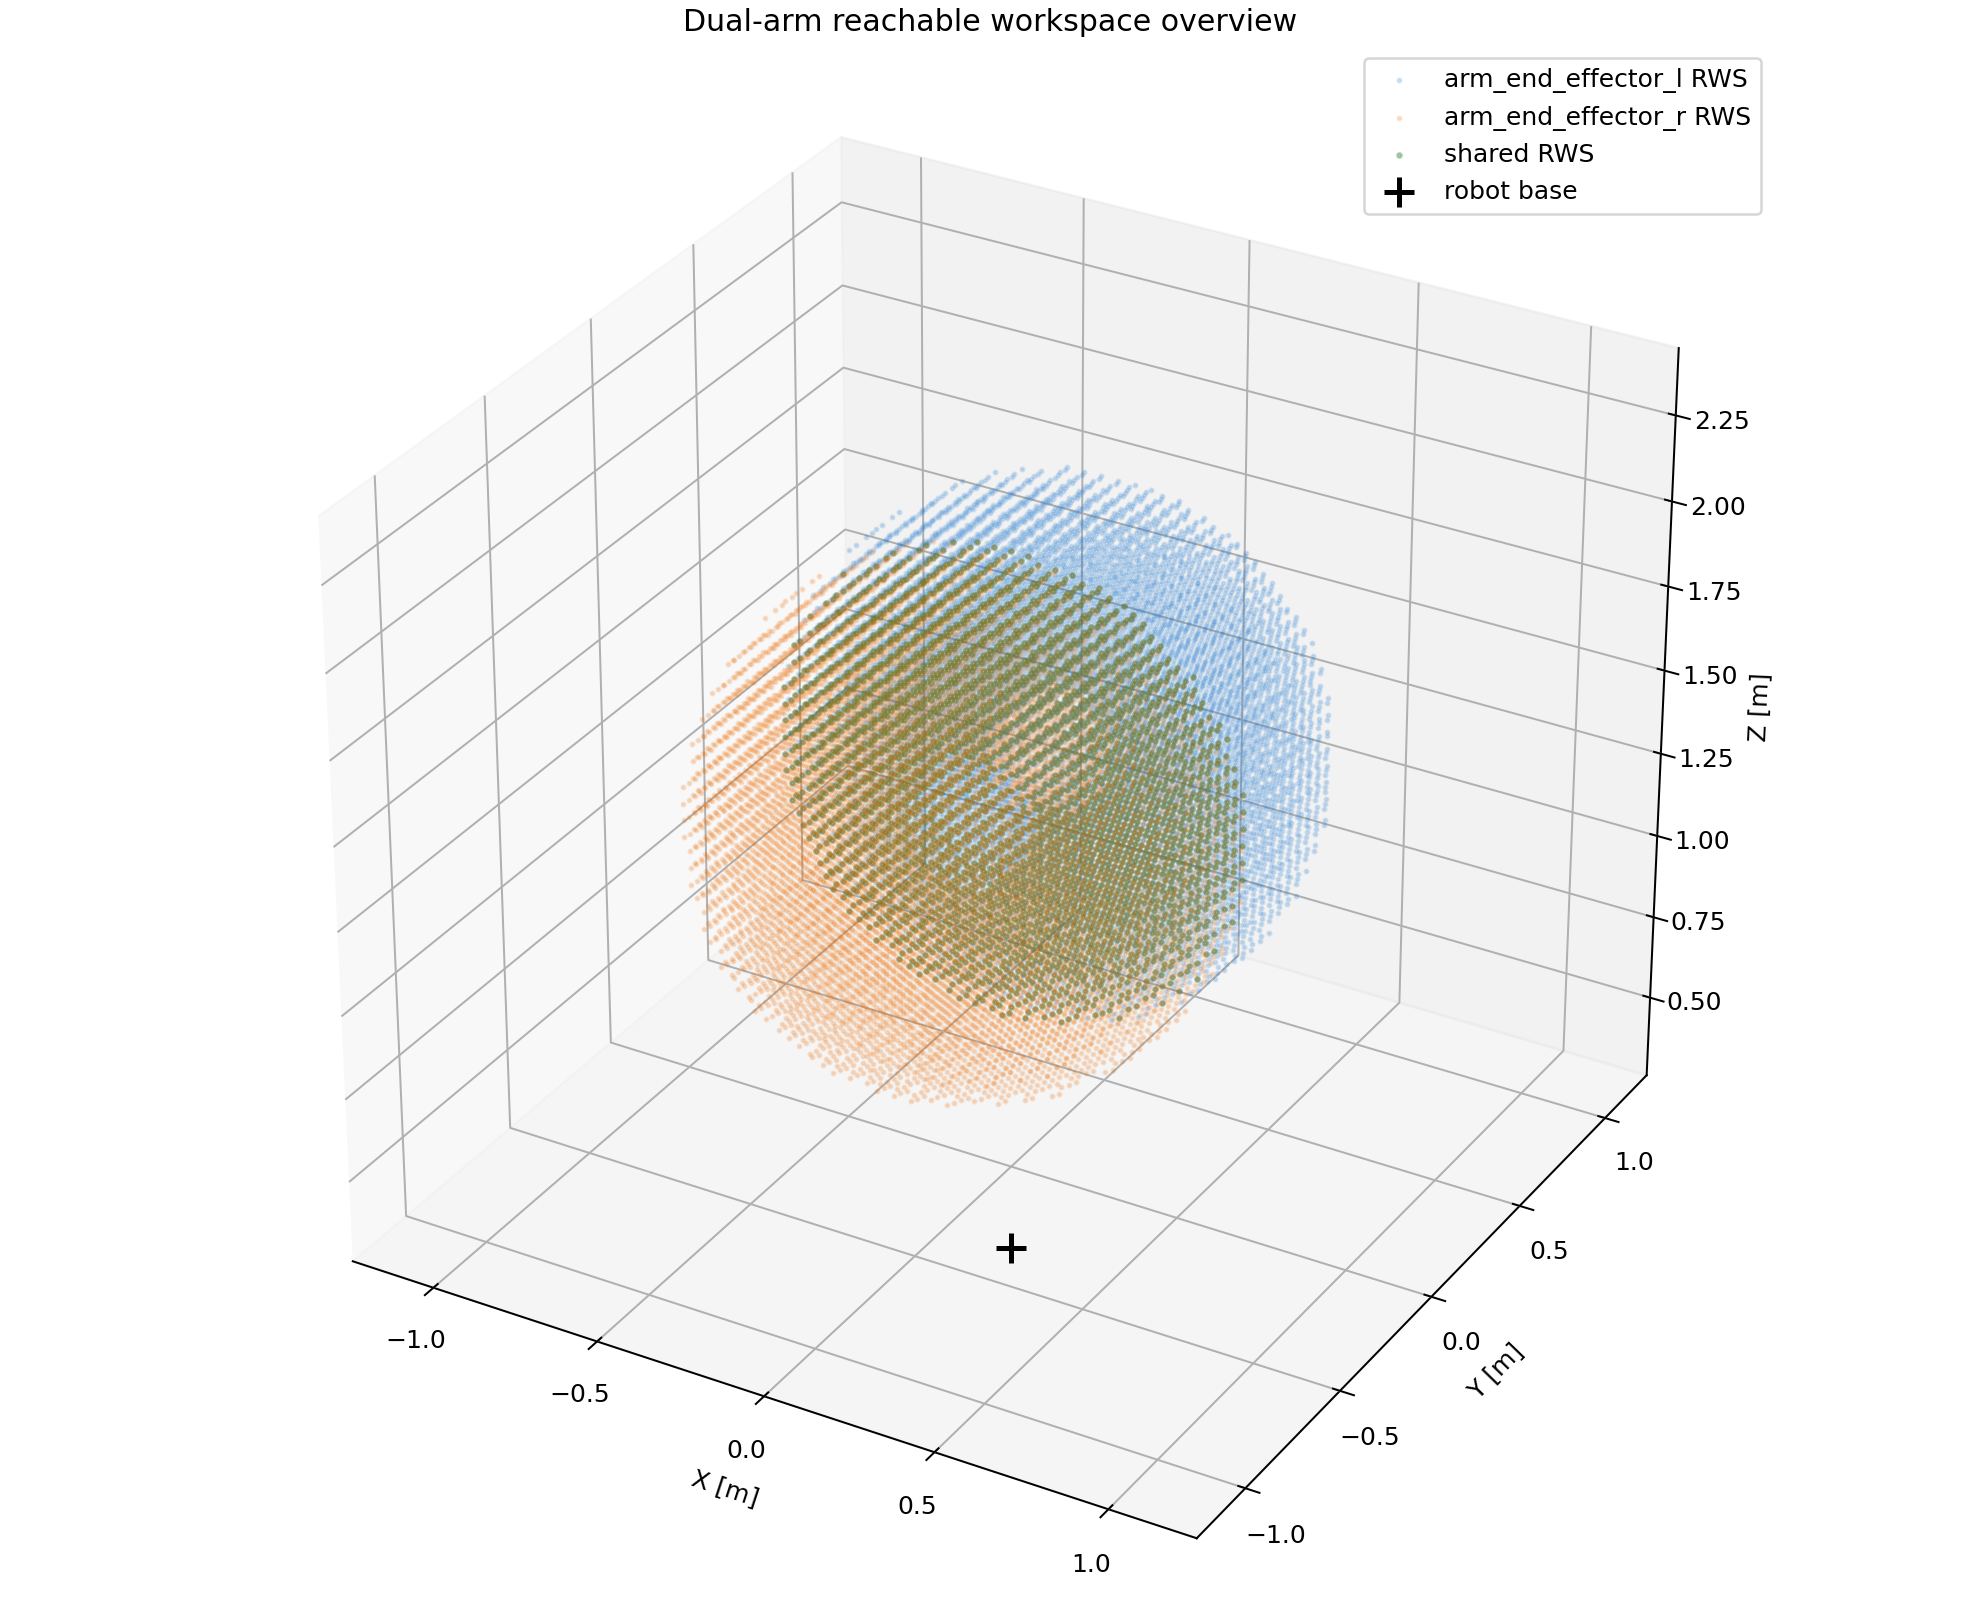
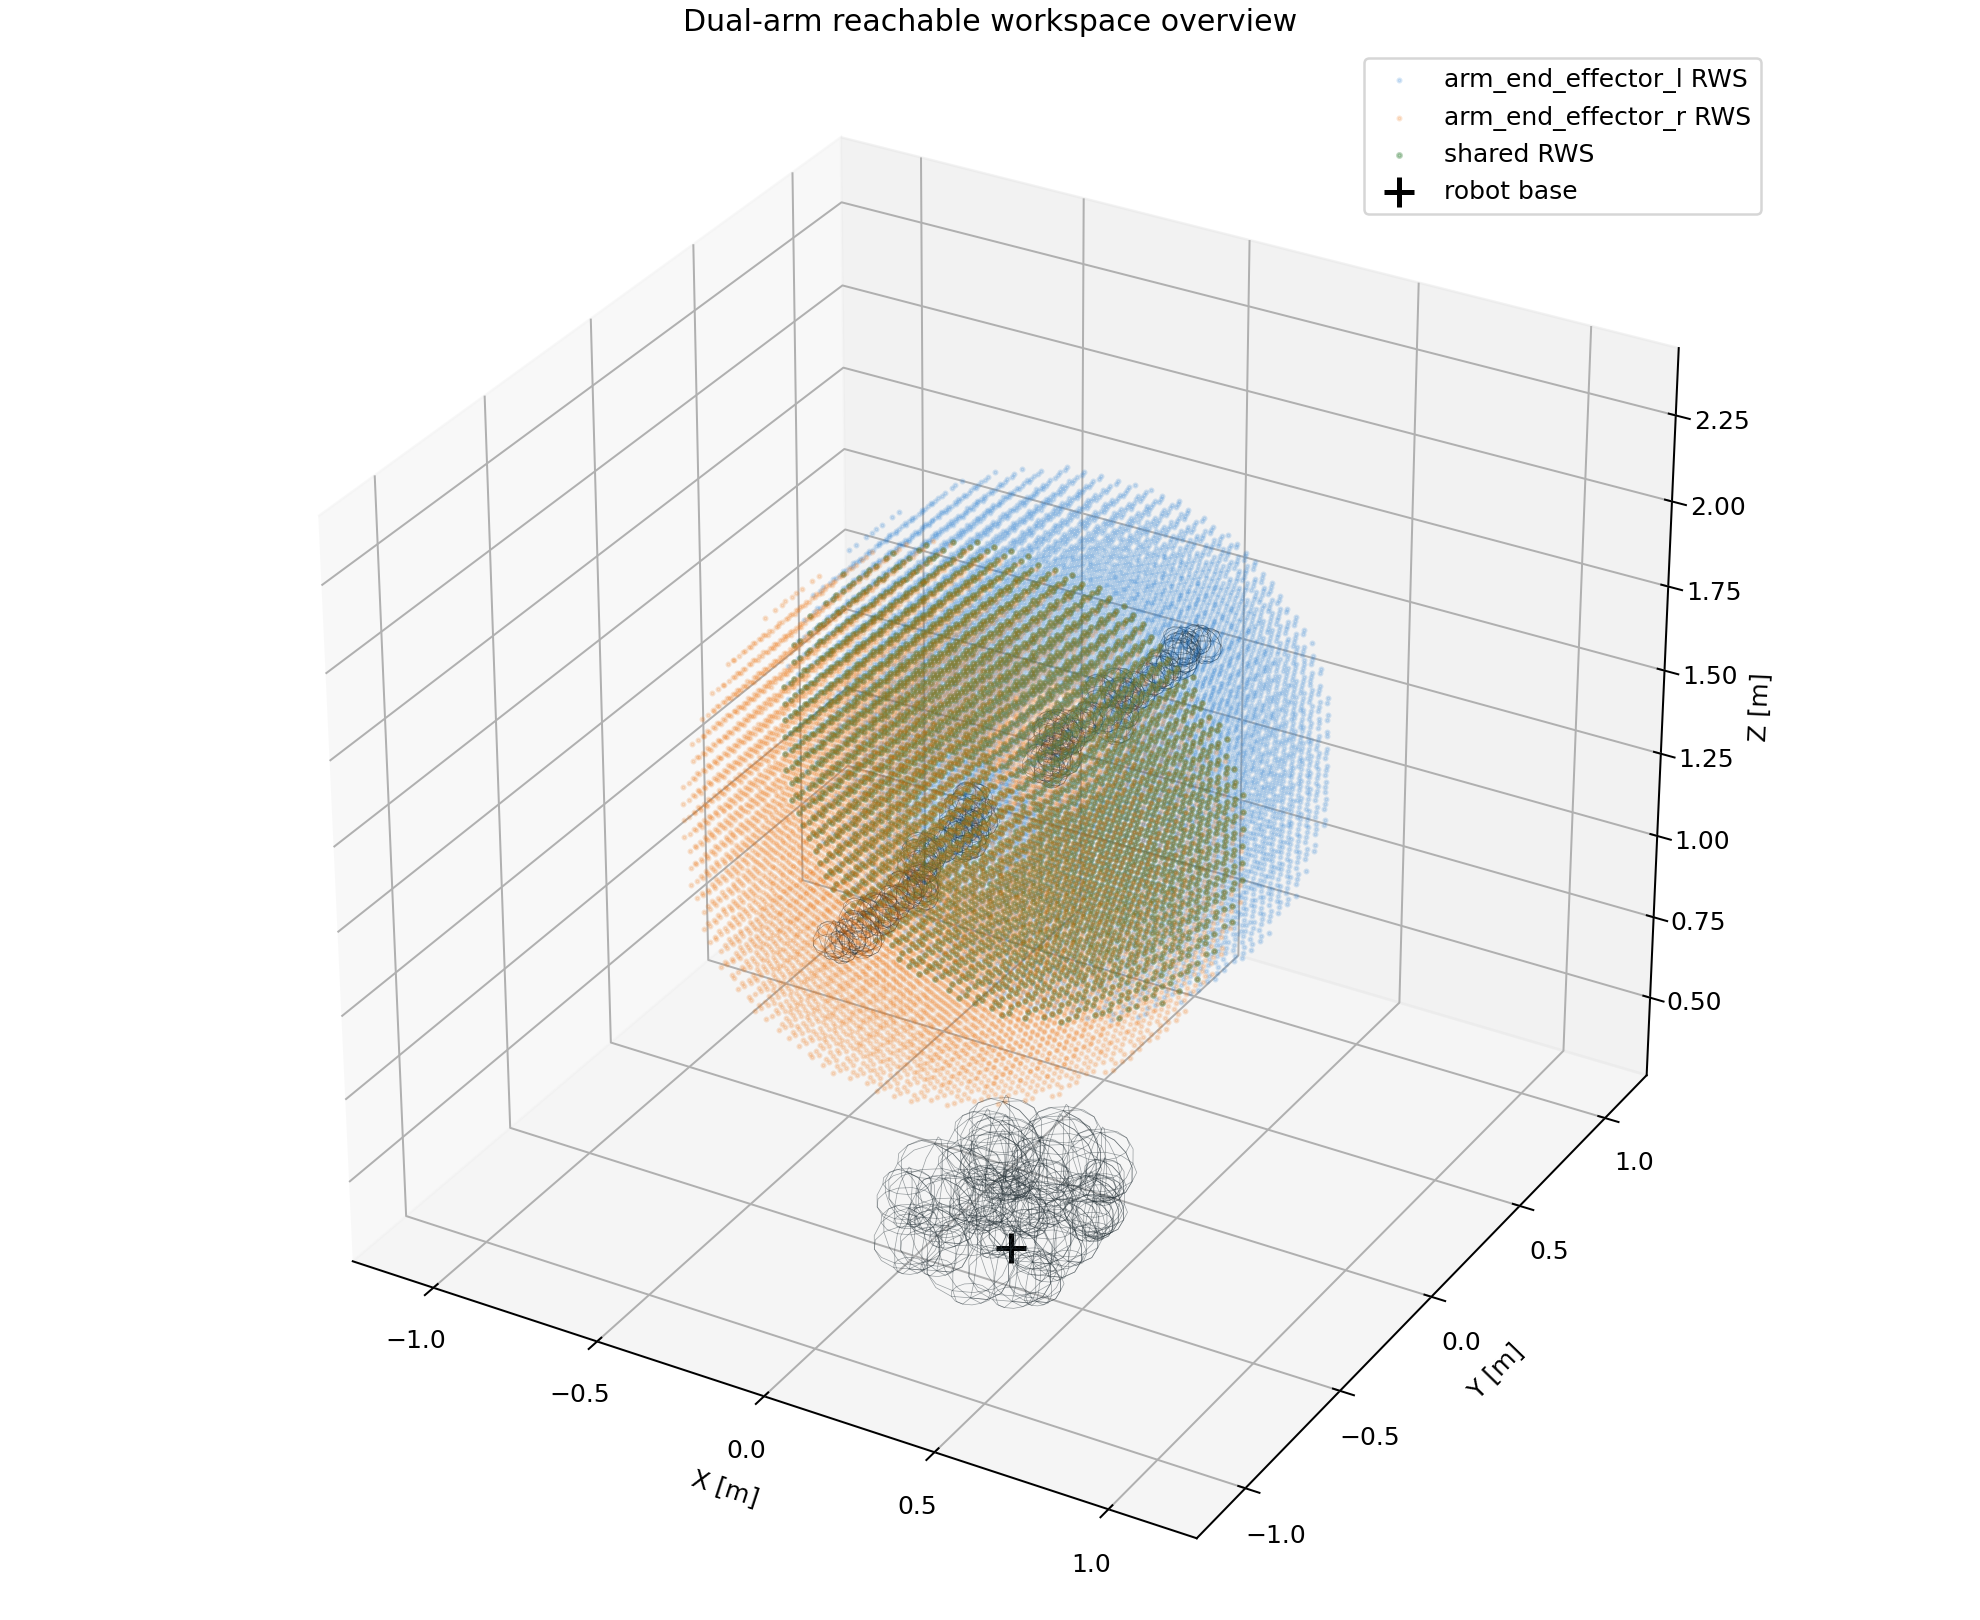
update dual_v2_2

Changed region(s): [[0.4313, 0.679, 0.5854, 0.8025], [0.5237, 0.3704, 0.6162, 0.4938], [0.4005, 0.4938, 0.5237, 0.5864]]

diff --git a/src/robot_workspace_dexterous/visualize.py b/src/robot_workspace_dexterous/visualize.py
@@ -1,14 +1,58 @@
 from __future__ import annotations
 
 from pathlib import Path
+import xml.etree.ElementTree as ET
 
 import matplotlib.pyplot as plt
 import numpy as np
+import yaml
 
 from .sampling import DexterousWorkspace
 
 
 AxisRanges = tuple[tuple[float, float], tuple[float, float], tuple[float, float]]
+WorldSphere = tuple[np.ndarray, float]
+
+
+def load_zero_pose_collision_spheres(
+    urdf_path: str | Path, collision_spheres_path: str | Path,
+) -> list[WorldSphere]:
+    """Transform link-local collision spheres into the URDF world frame."""
+    root = ET.parse(urdf_path).getroot()
+    links = {link.get("name") for link in root.findall("link")}
+    children: dict[str, list[tuple[str, np.ndarray]]] = {}
+    child_names: set[str] = set()
+    for joint in root.findall("joint"):
+        parent, child = joint.find("parent"), joint.find("child")
+        if parent is None or child is None:
+            continue
+        p, c = parent.get("link"), child.get("link")
+        origin = joint.find("origin")
+        xyz = np.fromstring(origin.get("xyz", "0 0 0"), sep=" ") if origin is not None else np.zeros(3)
+        rpy = np.fromstring(origin.get("rpy", "0 0 0"), sep=" ") if origin is not None else np.zeros(3)
+        cr, cp, cy = np.cos(rpy); sr, sp, sy = np.sin(rpy)
+        rotation = np.array([
+            [cy * cp, cy * sp * sr - sy * cr, cy * sp * cr + sy * sr],
+            [sy * cp, sy * sp * sr + cy * cr, sy * sp * cr - cy * sr],
+            [-sp, cp * sr, cp * cr],
+        ])
+        transform = np.eye(4); transform[:3, :3] = rotation; transform[:3, 3] = xyz
+        children.setdefault(p, []).append((c, transform)); child_names.add(c)
+    poses = {name: np.eye(4) for name in links - child_names}
+    stack = list(poses)
+    while stack:
+        parent = stack.pop()
+        for child, transform in children.get(parent, []):
+            poses[child] = poses[parent] @ transform; stack.append(child)
+    with Path(collision_spheres_path).open("r", encoding="utf-8") as stream:
+        sphere_map = yaml.safe_load(stream)["collision_spheres"]
+    result: list[WorldSphere] = []
+    for link, spheres in sphere_map.items():
+        pose = poses[link]
+        for sphere in spheres:
+            center = (pose @ np.array([*sphere["center"], 1.0]))[:3]
+            result.append((center, float(sphere["radius"])))
+    return result
 
 
 def _center_planes(
@@ -227,6 +271,7 @@ def save_dual_workspace_overview(
     axis_ranges: AxisRanges,
     base_position: tuple[float, float, float] = (0.0, 0.0, 0.0),
     max_points_per_arm: int = 30000,
+    robot_spheres: list[WorldSphere] | None = None,
 ) -> Path:
     """Plot all arm reachable workspaces together in the world frame."""
     if len(workspaces) < 2:
@@ -276,6 +321,17 @@ def save_dual_workspace_overview(
         [base_position[0]], [base_position[1]], [base_position[2]],
         marker="+", color="black", s=140, linewidths=2.0, label="robot base",
     )
+    if robot_spheres:
+        u = np.linspace(0, 2 * np.pi, 14)
+        v = np.linspace(0, np.pi, 8)
+        ux, uy = np.outer(np.cos(u), np.sin(v)), np.outer(np.sin(u), np.sin(v))
+        uz = np.outer(np.ones_like(u), np.cos(v))
+        for center, radius in robot_spheres:
+            axis.plot_wireframe(
+                center[0] + radius * ux, center[1] + radius * uy,
+                center[2] + radius * uz, rstride=2, cstride=2,
+                color="#263238", linewidth=0.28, alpha=0.45,
+            )
     axis.set_xlim(*axis_ranges[0])
     axis.set_ylim(*axis_ranges[1])
     axis.set_zlim(*axis_ranges[2])

diff --git a/src/robot_workspace_dexterous/cli.py b/src/robot_workspace_dexterous/cli.py
@@ -13,6 +13,7 @@ from .curobo_solver import (
 )
 from .sampling import DexterousWorkspace
 from .visualize import (
+    load_zero_pose_collision_spheres,
     save_dexterity_center_views,
     save_dual_workspace_overview,
     save_metric_center_views,
@@ -146,6 +147,9 @@ def main(argv: list[str] | None = None) -> None:
             output_dir / "dual_arm_workspace_overview.png",
             config.plot_ranges,
             config.base_position,
+            robot_spheres=load_zero_pose_collision_spheres(
+                config.urdf_path, config.collision_spheres_path
+            ),
         )
         print(f"dual-arm workspace overview: {overview}")
         ordered = [workspaces[link] for link in config.ee_links]
